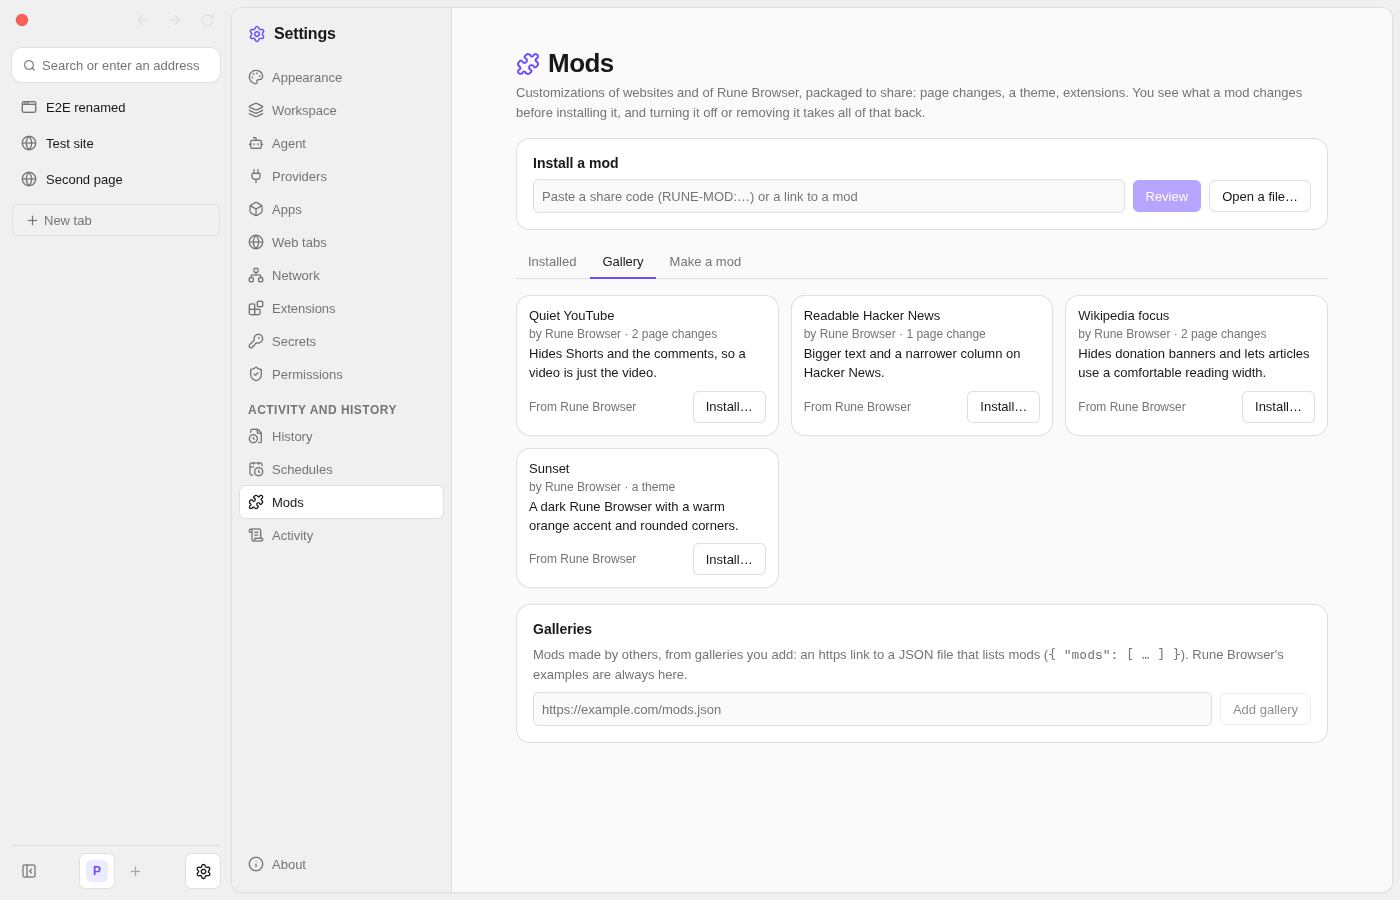
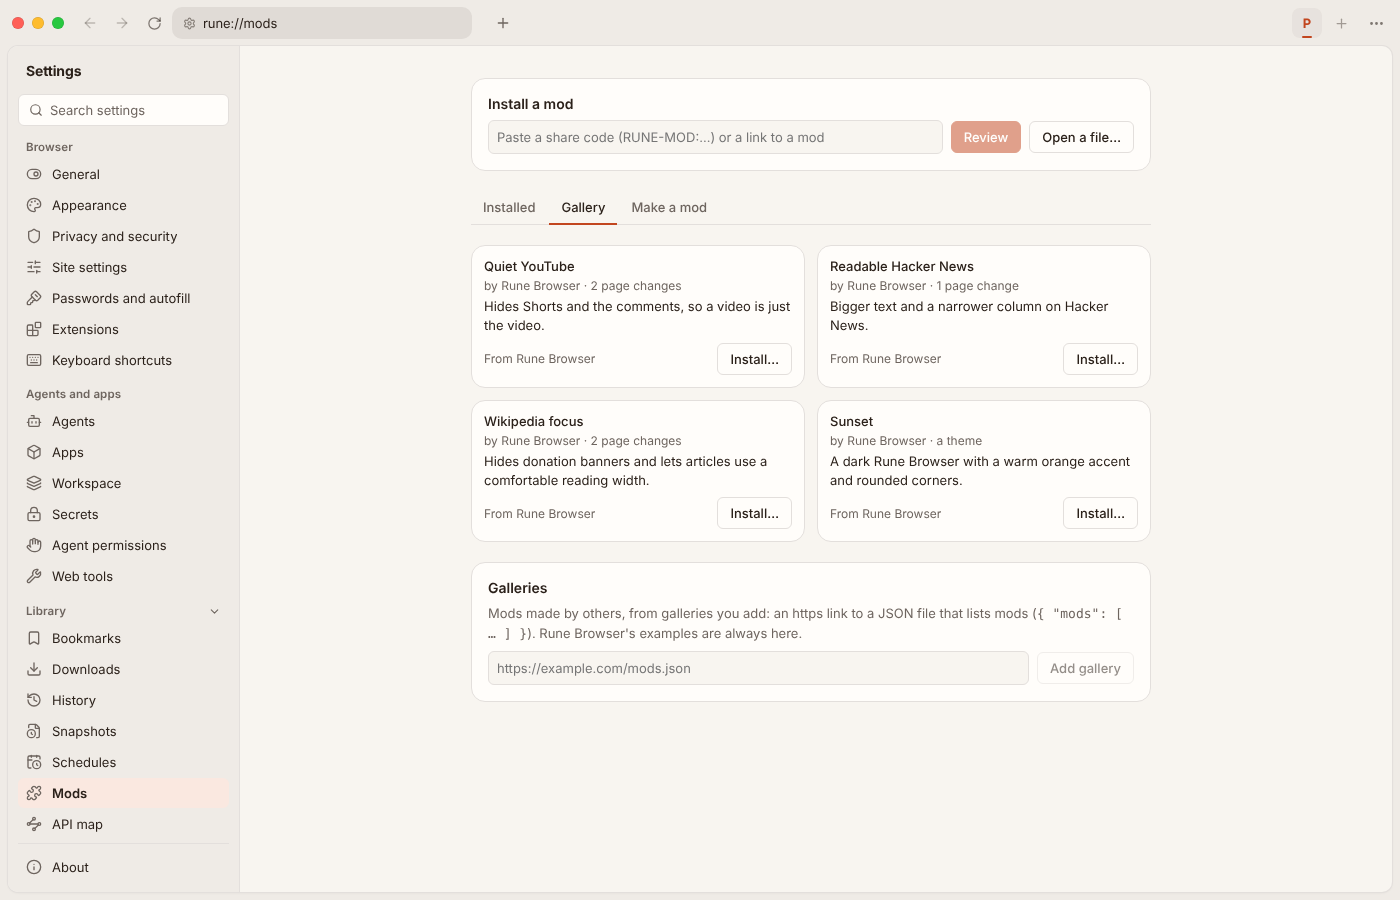
New screenshots in the README, in the current design (#165)
The README's screenshots were from before the redesign (vertical tabs, the
old palette). They're taken again of the real app, by a script like the
website's: `bun run --cwd apps/browser screenshots` launches the built app
headless on a throwaway profile with a new profile's settings and takes the
new-app screen, an app with its snapshots, page changes on a website and the
mods gallery. history.png becomes snapshots.png, as the panel is called now.

diff --git a/apps/browser/scripts/screenshots.ts b/apps/browser/scripts/screenshots.ts
@@ -1,0 +1,270 @@
+// The README's screenshots (docs/screenshots/), taken of the real browser: the built app is launched headless
+// on a throwaway profile, with the settings a new profile starts with, and driven over the DevTools protocol.
+// The website in page-changes.png is the website's demo recipe site (apps/landing/scripts/demo-site.html),
+// served here under a made-up host, and its page changes are added through the app's own API, as the agent
+// would add them.
+//
+//   bun run build          (once, or after changing the browser)
+//   bun run screenshots
+//
+// Needs openssl (for the demo site's certificate).
+import { mkdirSync, mkdtempSync, readFileSync, rmSync } from "node:fs";
+import { createServer } from "node:net";
+import { tmpdir } from "node:os";
+import { join } from "node:path";
+import { launchElectron } from "./electron";
+import { Page } from "./lib/cdp";
+
+const here = import.meta.dir;
+const out = join(here, "../docs/screenshots");
+const only = process.argv[2];
+const HOST = "www.slowcooked.blog";
+const PAGE = `https://${HOST}/recipes/weeknight-tomato-soup`;
+/** The window's size. The changes menu is placed wrongly when the app is zoomed, so these are 1x screenshots. */
+const SIZE = { width: 1400, height: 900 };
+const CHANGES = [
+  { title: "Hide the ads", action: "hide", selector: ".ad, .promo" },
+  { title: "Hide the life story", action: "hide", selector: ".story, .jump, .meta" },
+  { title: "Hide the newsletter pop-up", action: "hide", selector: ".newsletter" },
+  { title: "Larger ingredients", action: "style", selector: ".card li", value: "font-size: 20px; line-height: 1.8" },
+];
+
+if (!(await Bun.file(join(here, "../dist/electron/main.cjs")).exists())) {
+  console.error("No build found — run `bun run build` first.");
+  process.exit(1);
+}
+
+// The demo site, over HTTPS: Rune Browser warns before showing a site over plain HTTP.
+const certs = mkdtempSync(join(tmpdir(), "rune-shots-cert-"));
+const profile = mkdtempSync(join(tmpdir(), "rune-shots-"));
+await Bun.$`openssl req -x509 -newkey rsa:2048 -nodes -keyout ${join(certs, "key.pem")} -out ${join(certs, "cert.pem")} -days 2 -subj ${`/CN=${HOST}`} -addext ${`subjectAltName=DNS:${HOST}`}`.quiet();
+const html = readFileSync(join(here, "../../landing/scripts/demo-site.html"), "utf8");
+const site = Bun.serve({
+  hostname: "127.0.0.1",
+  port: 0,
+  tls: { cert: readFileSync(join(certs, "cert.pem"), "utf8"), key: readFileSync(join(certs, "key.pem"), "utf8") },
+  fetch: () => new Response(html, { headers: { "Content-Type": "text/html; charset=utf-8" } }),
+});
+
+const port = await new Promise<number>((resolve) => {
+  const srv = createServer().listen(0, "127.0.0.1", () => {
+    const { port } = srv.address() as { port: number };
+    srv.close(() => resolve(port));
+  });
+});
+// The window's size: what the app restores at startup.
+await Bun.write(
+  join(profile, "windows.json"),
+  JSON.stringify({ version: 1, open: [{ id: "w-screenshots0", bounds: SIZE, maximized: false }], closed: [] }),
+);
+process.chdir(join(here, ".."));
+const electron = await launchElectron(
+  {
+    RUNE_USER_DATA_DIR: profile,
+    RUNE_OFFSCREEN: "1",
+    RUNE_EXTENSION_UPDATES: "0",
+    RUNE_BROWSER_DIRS: "",
+    // The demo site is local: no proxy in between.
+    HTTPS_PROXY: undefined,
+    HTTP_PROXY: undefined,
+    https_proxy: undefined,
+    http_proxy: undefined,
+  },
+  [
+    "--ozone-platform=headless",
+    "--ozone-override-screen-size=1920,1080",
+    "--password-store=basic",
+    `--remote-debugging-port=${port}`,
+    "--no-proxy-server",
+    // The demo site's certificate is self-signed.
+    "--ignore-certificate-errors",
+    `--host-resolver-rules=MAP ${HOST}:443 127.0.0.1:${site.port}`,
+  ],
+);
+
+const page = await Page.connect(port, 30_000);
+const ev = <T>(code: string) => page.eval<T>(code);
+const click = (selector: string, text?: string) =>
+  ev(`(() => {
+    const els = [...document.querySelectorAll(${JSON.stringify(selector)})];
+    const el = ${text ? `els.find((e) => e.textContent.includes(${JSON.stringify(text)}))` : "els[0]"};
+    if (!el) throw new Error(${JSON.stringify(`not found: ${selector} ${text ?? ""}`)});
+    el.click();
+    return true;
+  })()`);
+/** Authenticated request to the Rune Browser server, made from the renderer. */
+const api = <T>(path: string, init: { method?: string; body?: unknown } = {}) =>
+  ev<T>(`fetch(window.rune.serverUrl + ${JSON.stringify(path)}, {
+    method: ${JSON.stringify(init.method ?? "GET")},
+    headers: { "Content-Type": "application/json", Authorization: "Bearer " + window.rune.token },
+    ${init.body !== undefined ? `body: ${JSON.stringify(JSON.stringify(init.body))},` : ""}
+  }).then(async (r) => { if (!r.ok) throw new Error(r.status + " " + (await r.text())); return r.status === 204 ? null : r.json(); })`);
+/** Runs code in the webview inside `root` (an app preview or web tab). */
+const inView = <T>(root: string, code: string) =>
+  ev<T>(`document.querySelector(${JSON.stringify(`${root} webview`)}).executeJavaScript(${JSON.stringify(code)})`);
+/** Picks an item of a ⋯ menu: the browser's (in the top row) or a tab's. */
+const fromMenu = async (menu: string, id: string) => {
+  await click(menu);
+  await page.waitFor(`!!document.querySelector('[data-context-menu] [data-menu-item="${id}"]:not(:disabled)')`, {
+    label: `the ⋯ menu's ${id}`,
+  });
+  await click(`[data-context-menu] [data-menu-item="${id}"]`);
+};
+/** Opens the "New tab" button's menu (a right-click) and picks an entry; resolves to the new tab's id. */
+const newTab = async (label: "New app" | "New web tab") => {
+  const before = await ev<string[]>(`[...document.querySelectorAll("[data-app-id]")].map((e) => e.dataset.appId)`);
+  await ev(
+    `document.querySelector("[data-new-tab]").dispatchEvent(new MouseEvent("contextmenu", { bubbles: true })), true`,
+  );
+  await page.waitFor(`!!document.querySelector("[data-context-menu]")`, { label: "new tab menu" });
+  await click("[data-context-menu] button", label);
+  return page.waitFor<string>(
+    `[...document.querySelectorAll("[data-app-id]")].map((e) => e.dataset.appId).find((id) => !${JSON.stringify(before)}.includes(id))`,
+    { label: `the ${label}`, timeoutMs: 30_000 },
+  );
+};
+const settle = () => Bun.sleep(1200);
+async function shot(name: string, take: () => Promise<void>) {
+  if (only && !name.includes(only)) return;
+  // Each starts from a window without tabs.
+  for (const app of await api<{ id: string }[]>("/api/apps")) await api(`/api/apps/${app.id}`, { method: "DELETE" });
+  await take().catch(async (err) => {
+    const failed = join(tmpdir(), `rune-shots-failed-${name}`);
+    await page.screenshot(failed);
+    console.error(`✗ ${name}: what the window showed is in ${failed}`);
+    throw err;
+  });
+  await settle();
+  await page.screenshot(join(out, name));
+  console.log(`✓ ${join(out, name)}`);
+}
+
+try {
+  await page.send("Runtime.enable");
+  await page.send("Emulation.setFocusEmulationEnabled", { enabled: true });
+  await page.waitFor(`!!window.rune && !!document.querySelector("[data-new-tab]")`, {
+    timeoutMs: 60_000,
+    label: "boot",
+  });
+  await Bun.sleep(1000);
+  mkdirSync(out, { recursive: true });
+
+  await shot("new-app.png", async () => {
+    const id = await newTab("New app");
+    await page.waitFor(`document.body.innerText.includes("What do you want to build?")`, { label: "new app screen" });
+    await page.waitFor(`!!document.querySelector('[data-agent-for="${id}"] textarea')`, { label: "agent sidebar" });
+  });
+
+  await shot("snapshots.png", async () => {
+    const id = await newTab("New app");
+    const tab = `[data-app-tab="${id}"]`;
+    await page.waitFor(`!!document.querySelector('[data-agent-for="${id}"] textarea')`, { label: "agent sidebar" });
+    await click(`${tab} [data-template="vanilla"]`);
+    await page.waitFor(`!!document.querySelector('${tab}[data-runtime-state="running"] webview')`, {
+      timeoutMs: 120_000,
+      label: "the app running",
+    });
+    await page.waitFor(
+      `document.querySelector('${tab} webview').executeJavaScript('!!document.querySelector("h1")?.textContent')`,
+      {
+        timeoutMs: 30_000,
+        label: "the app's page",
+      },
+    );
+    await api(`/api/apps/${id}`, { method: "PATCH", body: { name: "Weekly notes" } });
+    // A change, as the agent would make it, and some data.
+    const file = join(profile, "data", "apps", id, "src", "main.ts");
+    const source = await Bun.file(file).text();
+    await Bun.write(
+      file,
+      source
+        .replace(
+          "A starting point: notes saved in SQLite, live in every open window.",
+          "Notes for the week, saved in SQLite and live in every open window.",
+        )
+        .replace("Write a note…", "What's on your mind?")
+        .replace(
+          `root.querySelector("h1")!.textContent = document.title;`,
+          `root.querySelector("h1")!.textContent = "Weekly notes";`,
+        ),
+    );
+    await page.waitFor(
+      `document.querySelector('${tab} webview').executeJavaScript('document.body.innerText.includes("Notes for the week")')`,
+      {
+        timeoutMs: 30_000,
+        label: "the change, live",
+      },
+    );
+    for (const text of [
+      "Book the train to Lyon",
+      "Call the plumber about the kitchen tap",
+      "Try the tomato soup recipe",
+    ])
+      await inView(
+        tab,
+        `fetch("/api/notes", { method: "POST", headers: { "Content-Type": "application/json" }, body: ${JSON.stringify(JSON.stringify({ text }))} }).then((r) => r.ok)`,
+      );
+    await page.waitFor(
+      `document.querySelector('${tab} webview').executeJavaScript('document.querySelectorAll("li").length === 3')`,
+      {
+        label: "the notes",
+      },
+    );
+    await fromMenu(`[data-tab-chrome="${id}"] [data-more-menu]`, "snapshots");
+    const panel = `${tab} [data-history-panel]`;
+    await page.waitFor(`!!document.querySelector('${panel} [data-snapshot]')`, { label: "snapshots" });
+    await click(`${panel} [data-save-snapshot]`);
+    await page.waitFor(`document.querySelectorAll('${panel} [data-snapshot]').length >= 2`, { label: "new snapshot" });
+    await click(`${panel} [data-snapshot] button`);
+    await page.waitFor(`!!document.querySelector('${panel} [data-history-file="src/main.ts"]')`, { label: "its diff" });
+    // The change to the app's code rather than its lockfile.
+    await click(`${panel} [data-history-file="bun.lock"] button`);
+    const changed = `[...document.querySelectorAll('${panel} [data-history-file="src/main.ts"] div')].some((d) => d.textContent.includes("Notes for the week"))`;
+    if (!(await ev<boolean>(changed))) await click(`${panel} [data-history-file="src/main.ts"] button`);
+    await page.waitFor(changed, { label: "the diff of src/main.ts" });
+  });
+
+  await shot("page-changes.png", async () => {
+    const id = await newTab("New web tab");
+    const chrome = `[data-tab-chrome="${id}"]`;
+    const agent = `[data-agent-for="${id}"]`;
+    await Bun.sleep(500);
+    await ev(`(() => {
+      const input = document.activeElement?.matches("input") ? document.activeElement : document.querySelector('${chrome} [data-address]');
+      input.value = ${JSON.stringify(PAGE)};
+      input.dispatchEvent(new InputEvent("input", { bubbles: true }));
+      input.form.requestSubmit();
+      return true;
+    })()`);
+    await page.waitFor(
+      `document.querySelector('[data-web-tab="${id}"] webview')?.executeJavaScript('!!document.querySelector(".card")')`,
+      { timeoutMs: 20_000, label: "the demo site" },
+    );
+    if (!(await ev<boolean>(`!!document.querySelector('${agent}')`))) await click(`${chrome} [data-agent-show]`);
+    await page.waitFor(`!!document.querySelector('${agent} textarea')`, { label: "agent sidebar" });
+    for (const change of CHANGES)
+      await api("/api/page-changes", { method: "POST", body: { scope: { type: "site", value: HOST }, ...change } });
+    await page.waitFor(`!!document.querySelector('${chrome} [data-customized]')`, { label: "changes applied" });
+    await click(`${chrome} [data-customized]`);
+    await page.waitFor(
+      `document.querySelectorAll("[data-page-changes] [data-page-change]").length === ${CHANGES.length}`,
+      { label: "changes listed" },
+    );
+  });
+
+  await shot("mods-gallery.png", async () => {
+    await fromMenu(`[data-titlebar] [data-more-menu]`, "settings");
+    await page.waitFor(`!!document.querySelector('[data-settings-nav="mods"]')`, { label: "settings" });
+    await click('[data-settings-nav="mods"]');
+    await page.waitFor(`!!document.querySelector("[data-mods]")`, { label: "mods page" });
+    await click(`[data-mods-tab="gallery"]`);
+    await page.waitFor(`document.querySelectorAll("[data-gallery-mod]").length >= 3`, { label: "gallery" });
+  });
+} finally {
+  page.close();
+  electron.kill();
+  await electron.exited;
+  site.stop(true);
+  rmSync(profile, { recursive: true, force: true });
+  rmSync(certs, { recursive: true, force: true });
+}

diff --git a/apps/browser/docs/development.md b/apps/browser/docs/development.md
@@ -35,18 +35,19 @@ is usually pulled before it reaches us.
 
 ## Scripts
 
-| Command             | What it does                                                                                                                                                                                                                                                                                                |
-| ------------------- | ----------------------------------------------------------------------------------------------------------------------------------------------------------------------------------------------------------------------------------------------------------------------------------------------------------- |
-| `bun run dev`       | Vite dev server (HMR) + Electron. Server hot-reloads, main/preload changes restart Electron.                                                                                                                                                                                                                |
-| `bun run build`     | Production build into `dist/` (renderer, main/preload, compiled server binary), and the website's into `apps/landing/dist/`.                                                                                                                                                                                |
-| `bun run start`     | Runs the production build (unpackaged).                                                                                                                                                                                                                                                                     |
-| `bun run package`   | Builds and packages installers for this OS into `release/` (electron-builder, nothing published).                                                                                                                                                                                                           |
-| `bun run server`    | Runs only the Bun server standalone (port 3000), with watch mode.                                                                                                                                                                                                                                           |
-| `bun run typecheck` | Type-checks every package (`bun check`).                                                                                                                                                                                                                                                                    |
-| `bun run test`      | Unit tests (`tests/`, bun:test) against the real server with throwaway data. Failed files are run once more; see Flaky checks below.                                                                                                                                                                        |
-| `bun run e2e`       | Launches the built app with a throwaway profile and drives the UI over the DevTools protocol; add `--agent` to also have the agents build an app and customize a site (uses your own plan). Runs offscreen on Chromium's headless display backend, so no window opens. Screenshots land in `test-results/`. |
-| `bun run check`     | Everything: formatting (`bun fmt --check`), typecheck, tests, build, e2e.                                                                                                                                                                                                                                   |
-| `bun run release`   | Releases, see [Releasing](releasing.md).                                                                                                                                                                                                                                                                    |
+| Command               | What it does                                                                                                                                                                                                                                                                                                |
+| --------------------- | ----------------------------------------------------------------------------------------------------------------------------------------------------------------------------------------------------------------------------------------------------------------------------------------------------------- |
+| `bun run dev`         | Vite dev server (HMR) + Electron. Server hot-reloads, main/preload changes restart Electron.                                                                                                                                                                                                                |
+| `bun run build`       | Production build into `dist/` (renderer, main/preload, compiled server binary), and the website's into `apps/landing/dist/`.                                                                                                                                                                                |
+| `bun run start`       | Runs the production build (unpackaged).                                                                                                                                                                                                                                                                     |
+| `bun run package`     | Builds and packages installers for this OS into `release/` (electron-builder, nothing published).                                                                                                                                                                                                           |
+| `bun run server`      | Runs only the Bun server standalone (port 3000), with watch mode.                                                                                                                                                                                                                                           |
+| `bun run typecheck`   | Type-checks every package (`bun check`).                                                                                                                                                                                                                                                                    |
+| `bun run test`        | Unit tests (`tests/`, bun:test) against the real server with throwaway data. Failed files are run once more; see Flaky checks below.                                                                                                                                                                        |
+| `bun run e2e`         | Launches the built app with a throwaway profile and drives the UI over the DevTools protocol; add `--agent` to also have the agents build an app and customize a site (uses your own plan). Runs offscreen on Chromium's headless display backend, so no window opens. Screenshots land in `test-results/`. |
+| `bun run screenshots` | Takes the README's screenshots (`docs/screenshots/`) again, of the built app in the same headless way.                                                                                                                                                                                                      |
+| `bun run check`       | Everything: formatting (`bun fmt --check`), typecheck, tests, build, e2e.                                                                                                                                                                                                                                   |
+| `bun run release`     | Releases, see [Releasing](releasing.md).                                                                                                                                                                                                                                                                    |
 
 ## Conventions
 

diff --git a/README.md b/README.md
@@ -48,10 +48,10 @@ the same agent can hide, restyle or add things, and those changes stay.
 - **Nothing is lost.** Every change is saved as a snapshot, with its diff,
   to undo or restore, including the app's data.
 
-|                                                                                 |                                                                              |
-| ------------------------------------------------------------------------------- | ---------------------------------------------------------------------------- |
-| ![An app with its agent and History](apps/browser/docs/screenshots/history.png) | ![Page changes on a website](apps/browser/docs/screenshots/page-changes.png) |
-| ![The mods gallery](apps/browser/docs/screenshots/mods-gallery.png)             |                                                                              |
+|                                                                                         |                                                                              |
+| --------------------------------------------------------------------------------------- | ---------------------------------------------------------------------------- |
+| ![An app with its agent and its snapshots](apps/browser/docs/screenshots/snapshots.png) | ![Page changes on a website](apps/browser/docs/screenshots/page-changes.png) |
+| ![The mods gallery](apps/browser/docs/screenshots/mods-gallery.png)                     |                                                                              |
 
 ## Install
 

diff --git a/AGENTS.md b/AGENTS.md
@@ -6,7 +6,7 @@ Electron + SolidJS (StyleX) desktop app; Bun server written with Effect v4 (SQLi
 
 A Bun workspace with Turborepo (`turbo.json`):
 
-- `apps/browser`: Rune Browser, the main package. Paths below (`src/…`, `scripts/…`, `tests/…`) are relative to it.
+- `apps/browser`: Rune Browser, the main package. Paths below (`src/…`, `scripts/…`, `tests/…`) are relative to it. The README's screenshots (`docs/screenshots/`) are of the real app too: `bun run --cwd apps/browser screenshots` takes them again (after a build).
 - `apps/landing`: the website, static Astro pages styled with StyleX. It ships no JavaScript and a strict CSP (`default-src 'none'`: no scripts at all); keep it that way, no third-party scripts, fonts or trackers. Its screenshots are of the real app: `bun run --cwd apps/landing screenshots` takes them again (after `bun run --cwd apps/browser build`).
 
 Run commands from the repo's root: `bun run check`, `typecheck`, `test` and `build` go through Turborepo for every package; `dev`, `start`, `package`, `server`, `e2e` and `release` are the browser's (`dev:landing` for the website).

diff --git a/CLAUDE.md b/CLAUDE.md
@@ -6,7 +6,7 @@ Electron + SolidJS (StyleX) desktop app; Bun server written with Effect v4 (SQLi
 
 A Bun workspace with Turborepo (`turbo.json`):
 
-- `apps/browser`: Rune Browser, the main package. Paths below (`src/…`, `scripts/…`, `tests/…`) are relative to it.
+- `apps/browser`: Rune Browser, the main package. Paths below (`src/…`, `scripts/…`, `tests/…`) are relative to it. The README's screenshots (`docs/screenshots/`) are of the real app too: `bun run --cwd apps/browser screenshots` takes them again (after a build).
 - `apps/landing`: the website, static Astro pages styled with StyleX. It ships no JavaScript and a strict CSP (`default-src 'none'`: no scripts at all); keep it that way, no third-party scripts, fonts or trackers. Its screenshots are of the real app: `bun run --cwd apps/landing screenshots` takes them again (after `bun run --cwd apps/browser build`).
 
 Run commands from the repo's root: `bun run check`, `typecheck`, `test` and `build` go through Turborepo for every package; `dev`, `start`, `package`, `server`, `e2e` and `release` are the browser's (`dev:landing` for the website).
